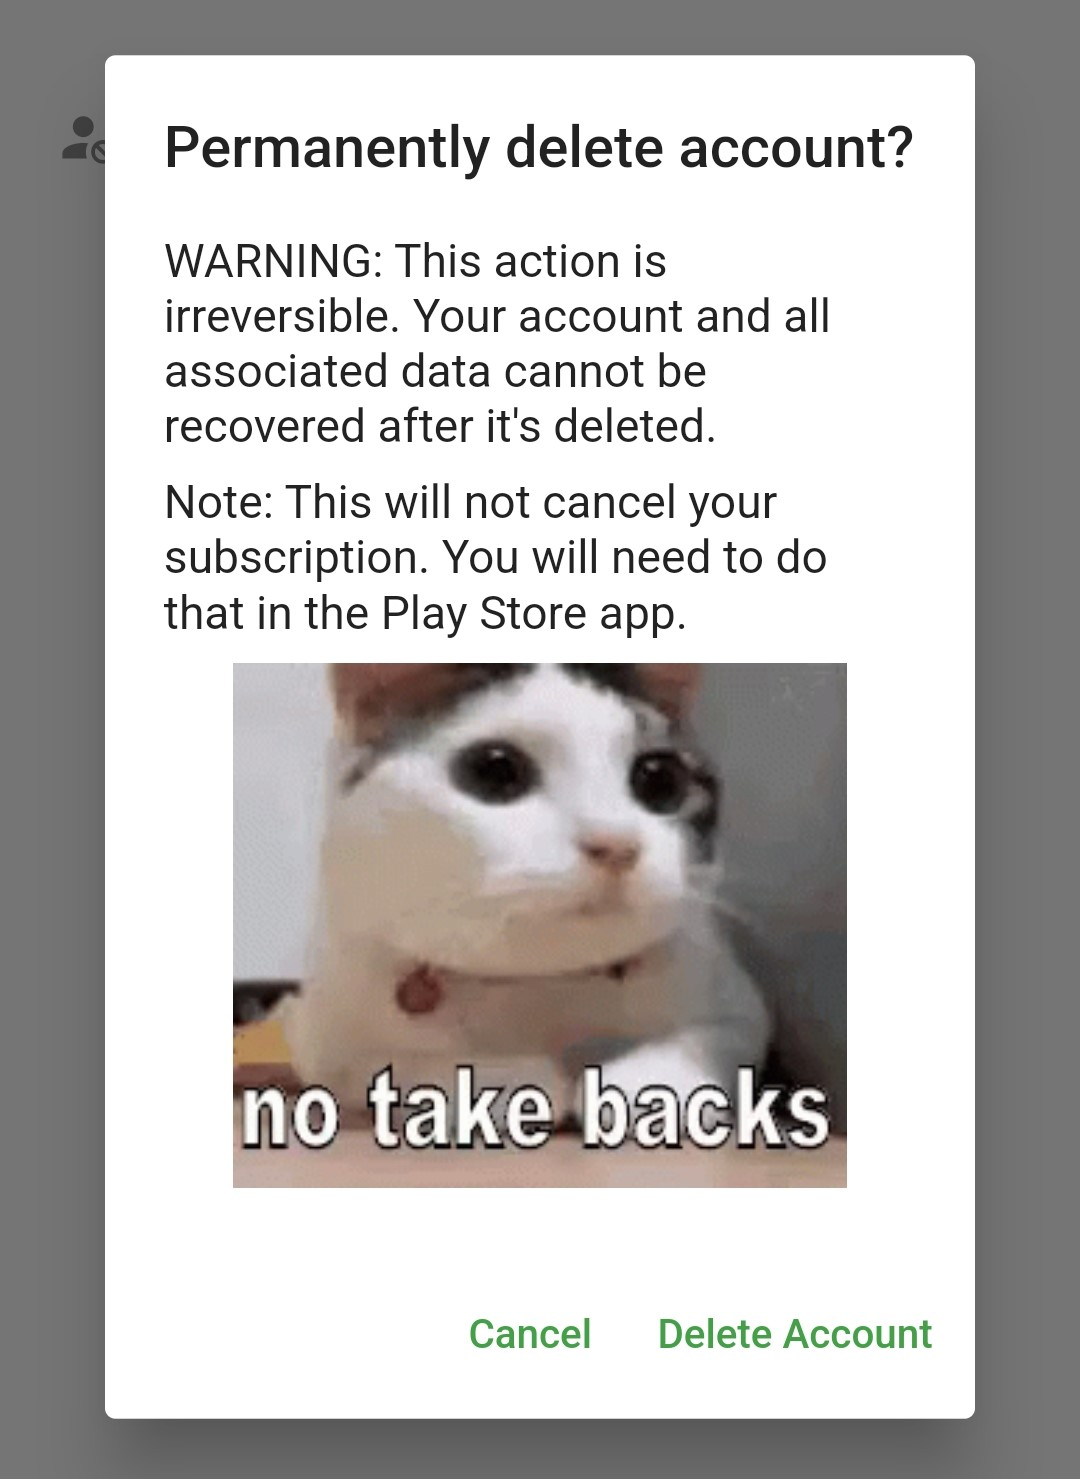
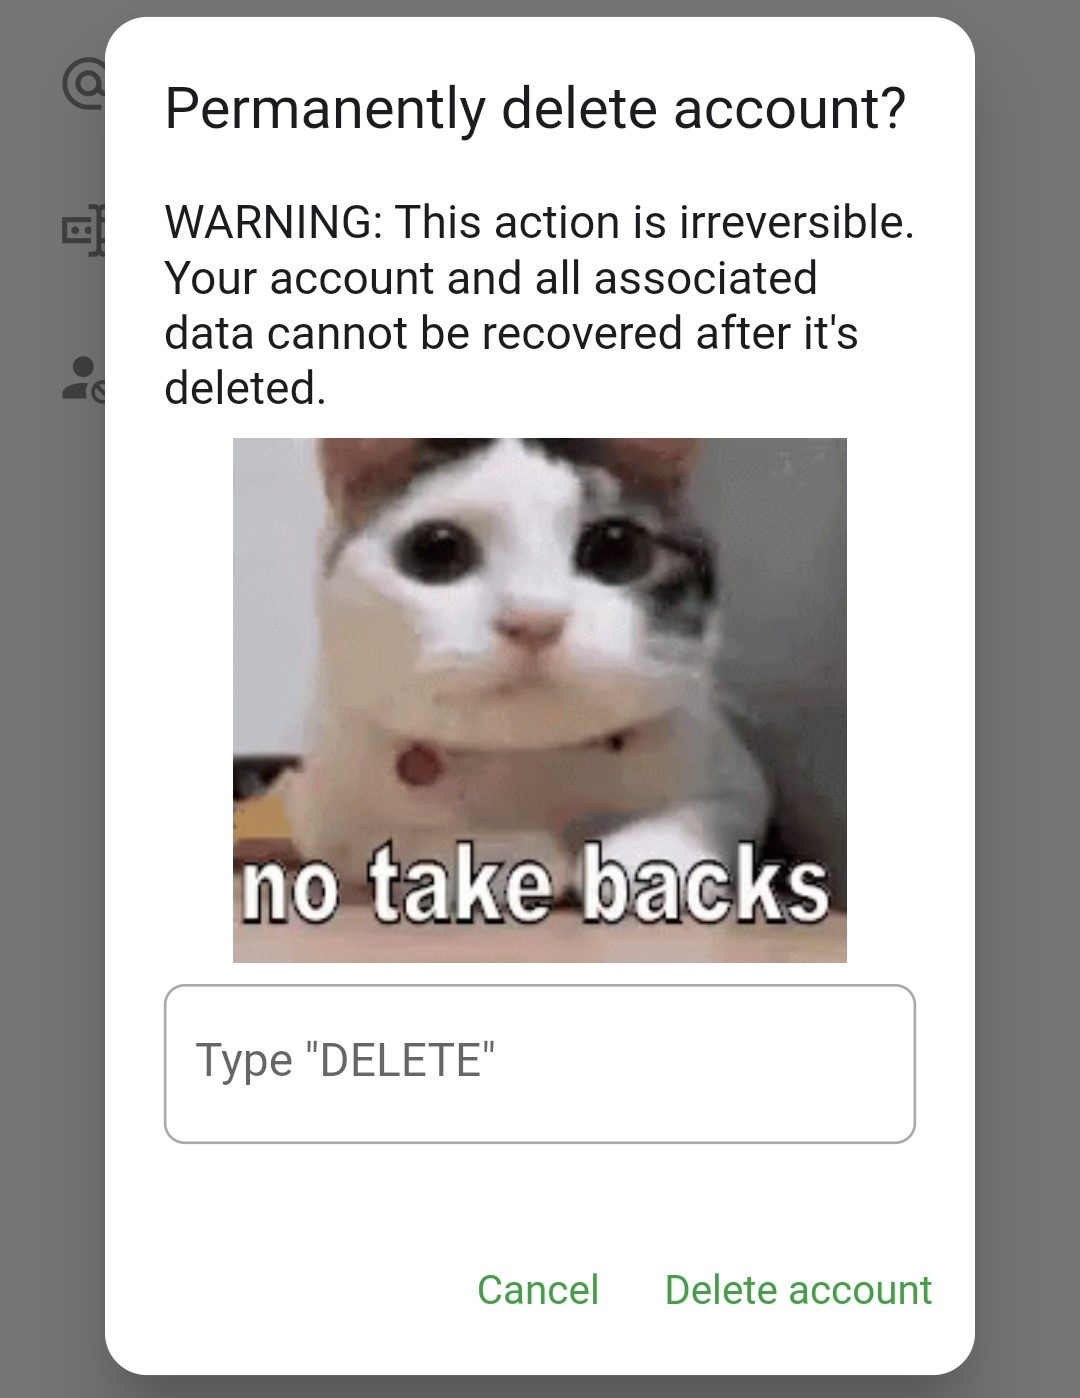
Add new settings pages

diff --git a/content/en/docs/600_account/609_connect-accounts/index.md b/content/en/docs/600_account/609_connect-accounts/index.md
@@ -1,0 +1,16 @@
+---
+title: "How do I connect my email address to my social login?"
+description: "Learn how to connect an email address and password with your social account login in Planter"
+draft: false
+weight: 609
+url: "account/connect-accounts"
+---
+
+1. Select **More** from the menu bar then select **Settings**<br /><br />
+{{< screenshot Menu-bar-more.jpg "Screenshot of the More menu option" >}}<br /><br />
+{{< screenshot Menu-bar-settings.jpg "Screenshot of the Settings menu option" >}}<br /><br />
+2. Select **Manage**<br /><br />
+{{< screenshot Settings-manage.jpg "Screenshot of the Manage option in Settings" >}}<br /><br />
+3. Select **Add email address** and follow the steps to set-up an email address and password login
+4. To see additional details about a sign-in method, long press (or hover on web) on the icon to see more information such as the email address used<br /><br />
+{{< screenshot Account-details.jpg "Screenshot of the account details pop-up" >}}<br /><br />

diff --git a/content/en/docs/600_account/601_login/index.md b/content/en/docs/600_account/601_login/index.md
@@ -12,6 +12,6 @@ url: "account/login"
 2. Select **Login**<br /><br />
 {{< screenshot Settings-login.jpg "Screenshot of the Login option in settings" >}}<br /><br />
 3. Enter the email address and password for your Planter account, then select **Sign in** (or, log in using your Google or Facebook account)
-<br /><br />
+{{< alert icon="🫛" context="info" text="If it's your first time logging in, select **Register**" />}}
 {{< screenshot Login-screen.jpg "Screenshot of the login screen" >}}
 {{< alert icon="🍓" context="info" text="Having trouble logging in to your account? Use the [**Send feedback**](../../connect/contact-us/#send-feedback-contact-support) option in **Settings** to email the Planter team" />}}

diff --git a/content/en/docs/600_account/611_change-avatar/index.md b/content/en/docs/600_account/611_change-avatar/index.md
@@ -1,0 +1,14 @@
+---
+title: "How do I change my Planter account avatar"
+description: "Learn how to change your Planter account avatar"
+draft: false
+weight: 611
+url: "account/change-avatar"
+---
+
+1. Select **More** from the menu bar then select **Settings**<br /><br />
+{{< screenshot Menu-bar-more.jpg "Screenshot of the More menu option" >}}<br /><br />
+{{< screenshot Menu-bar-settings.jpg "Screenshot of the Settings menu option" >}}<br /><br />
+2. Select your avatar icon (under the **Account** section) then select a new avatar<br /><br />
+{{< screenshot Account-avatar.jpg "Screenshot of the account avatar" >}}<br /><br />
+{{< screenshot Choose-avatar.jpg "Screenshot of the avatar selection window" >}}

diff --git a/content/en/docs/600_account/610_change-email/index.md b/content/en/docs/600_account/610_change-email/index.md
@@ -1,0 +1,13 @@
+---
+title: "How do I change the email address for my Planter account?"
+description: "Learn how to change your Planter account login to a different email address"
+draft: false
+weight: 610
+url: "account/change-email"
+---
+
+1. Select **More** from the menu bar then select **Settings**<br /><br />
+{{< screenshot Menu-bar-more.jpg "Screenshot of the More menu option" >}}<br /><br />
+{{< screenshot Menu-bar-settings.jpg "Screenshot of the Settings menu option" >}}<br /><br />
+2. Select **Manage**<br /><br />
+{{< screenshot Settings-manage.jpg "Screenshot of the Manage option in Settings" >}}<br /><br />

diff --git a/content/en/docs/600_account/608_delete/index.md b/content/en/docs/600_account/608_delete/index.md
@@ -13,7 +13,7 @@ url: "account/delete"
 {{< screenshot Settings-manage.jpg "Screenshot of the Manage option in Settings" >}}<br /><br />
 3. Select **Delete account**<br /><br />
 {{< screenshot Delete-account1.jpg "Screenshot of the Delete account option in Manage Account" >}}<br /><br />
-4. Select **Delete Account** to confirm the deletion
+4. Type **delete** then select **Delete Account** to confirm the deletion
 
 {{< alert icon="🌶" context="info" text="Deleting your account permanently deletes all your Planter data including your gardens" />}}
 
